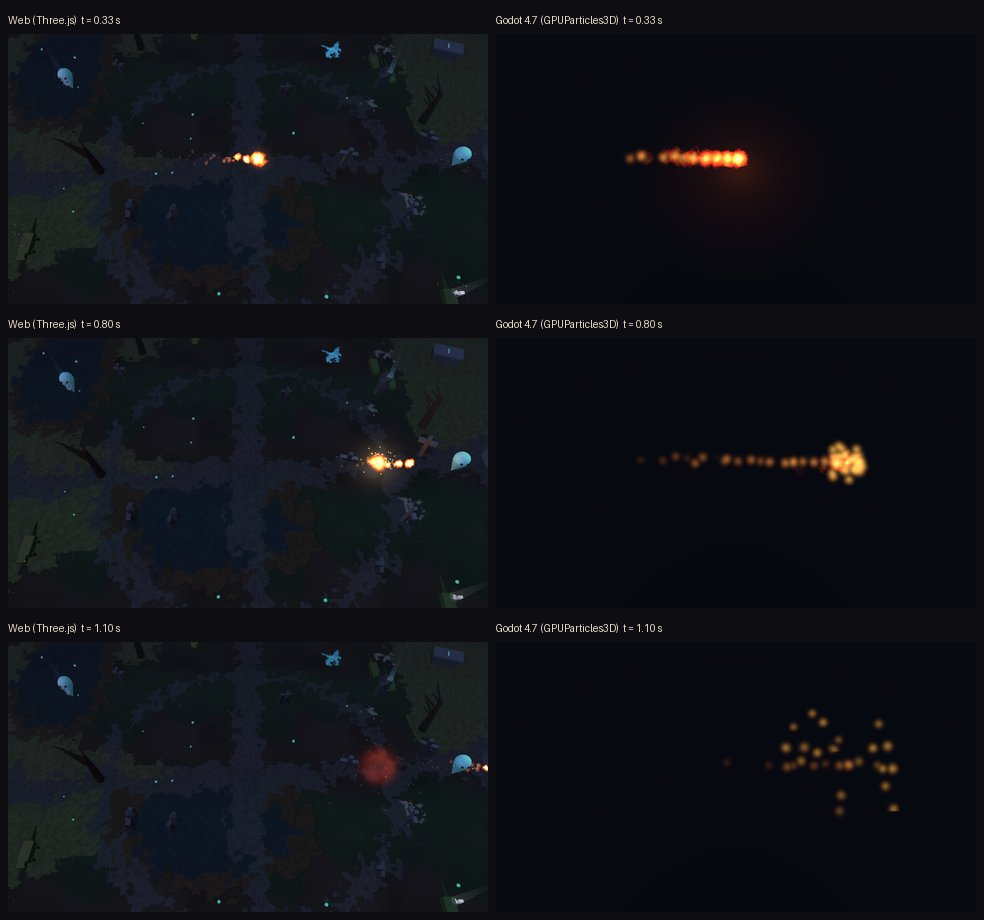
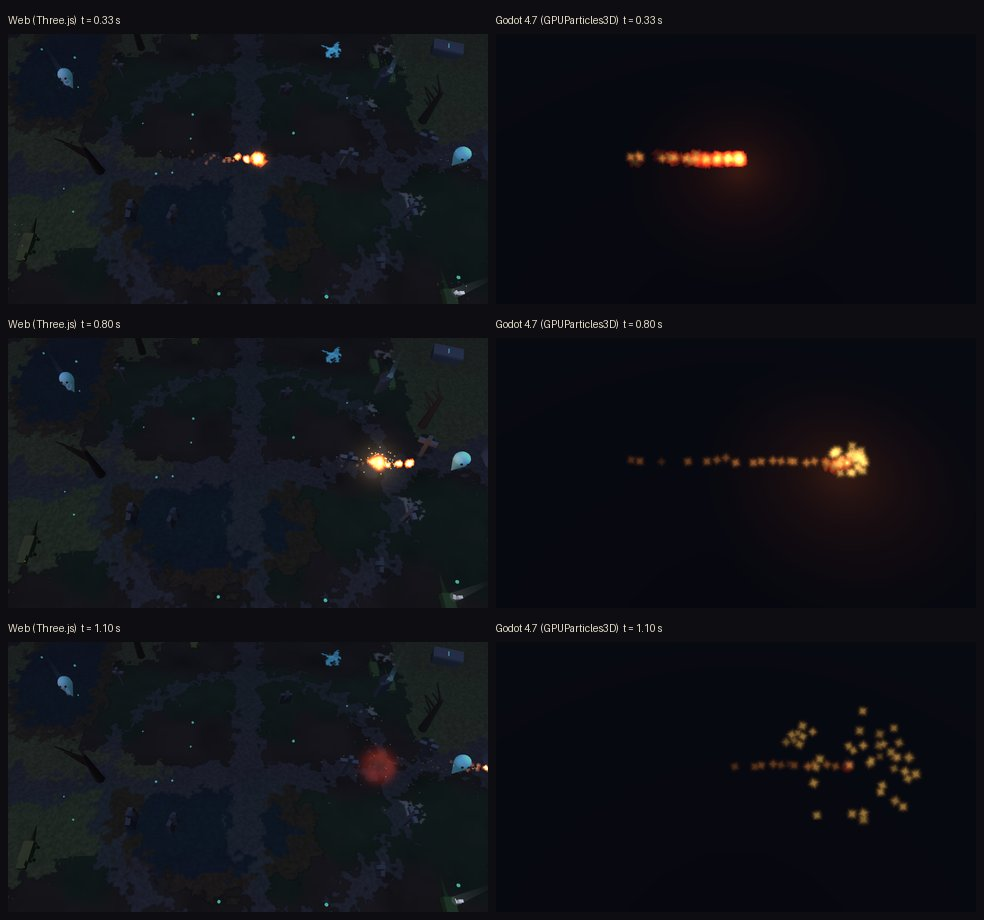
P5: match the web explode() in Godot (spark frames, light, no fade)
Read the web explode() source line by line: sparks and embers use glow
frames 9-16 and fly upward, the explosion flipbook does not fade, and a
0.4 s point light (4.5, range 10) flashes at the hit. Re-rendered the side
by side; explosion flipbook size and spark size still differ and are
listed in docs/GODOT.md. DEVLOG #43 updated.

Changed region(s): [[0.7622, 0.7609, 0.9451, 0.913], [0.6707, 0.4565, 0.9146, 0.5478], [0.6402, 0.1522, 0.7622, 0.1826]]

diff --git a/docs/DEVLOG.md b/docs/DEVLOG.md
@@ -102,7 +102,7 @@
 | 40 | 線上版開始按鈕一直不能按：煙霧、單元、端對端、其他驗證四組紅燈；本機與雲端全綠 | P3b 推送後的線上測試（`npm run test:live`）；探針等 15 秒後，頁面還停在「載入中」 | 1.2 MB 的人偶模型檔用一般 `<script>` 載入，瀏覽器要等它下載完才繼續解析頁面。本機伺服器快，看不出來；GitHub Pages 慢，整頁卡住。網路慢的玩家也會卡 | 載入器與 `character.js` 改成 `defer`；模型檔改由 `character.js` 在頁面可玩之後才插入下載，下載完再換上人偶，下載失敗就維持方塊法師 | 其他驗證「首頁不得以擋住解析的方式載入超過 100 KB 的本地腳本」，拿舊寫法驗證過會紅；教訓：本機與雲端都綠，線上版仍要測，素材大小會改變載入行為 |
 | 41 | 加了 9 列按鍵重設後，設定畫面的頂端在桌機與手機都跑出畫面外 | 截圖自查「卡片超出畫面」（桌機、手機各一） | 覆蓋層用置中排版，內容比螢幕高時會往上下兩邊溢出，頂端被切掉且捲不到 | 設定畫面改成靠上排列、卡片上下自動留白：空間夠時置中，不夠時從頂端開始、可往下捲 | 截圖自查本來就逐畫面檢查卡片在畫面內 |
 | 42 | P4 單元測試三項失敗：Esc 取消改鍵卻關掉設定、搖桿測試報錯、自動瞄準偏 8 單位 | P4 第一次一鍵全跑；同一輪端對端的真實觸控全過 | 三個都是測試寫法：①直接對 window 發鍵盤事件，同一目標上的監聽照註冊順序執行，真實按鍵會先經過 window 的捕獲階段；②搖桿測試在觸控介面建立前就呼叫，程式沒防呆；③先算瞄準點才移鏡頭，順序顛倒 | 測試改從頁面元素發事件；搖桿函式加防呆（介面未建立就只設按鍵）；測試先把鏡頭定位再算瞄準 | 同一組單元測試；教訓：模擬事件要走跟真實事件一樣的路徑 |
-| 43 | Godot 版火星是大顆四角星形，網頁版是小圓點；爆炸也沒有變大 | 第一次並排截圖，放大命中處 | ①光點表 16 格裡有星形，粒子隨機取格就會取到；②Godot 的曲線上限預設是 1，設定「2.5 長到 3.7」被截成不變 | 火星與餘燼固定取第 1 格（圓點）；曲線上限改成依設定值放大 | 並排圖本身就是檢查；修正後形狀一致，大小仍有差，記在 GODOT.md |
+| 43 | Godot 版火星是大顆四角星形，網頁版是小圓點；爆炸也沒有變大 | 第一次並排截圖，放大命中處 | ①光點表 16 格裡有星形，粒子隨機取格就會取到；②Godot 的曲線上限預設是 1，設定「2.5 長到 3.7」被截成不變 | 回頭逐行對照網頁版 `explode()` 原始碼：火星與餘燼改用光點表第 9–16 格、方向偏上，爆炸翻頁圖不淡出，補上命中點光源，曲線上限依設定值放大 | 並排圖本身就是檢查；修正後形狀與爆光一致，爆炸翻頁圖偏小與火星偏大仍未查明，記在 GODOT.md；教訓：移植前先讀原始碼，不只讀參數表（參數表沒有寫格子編號與透明度） |
 | 44 | 雲端：P4 推送後端對端「火勢自己蔓延過整片草地」等三項失敗，火球落在測試草地以外 | GitHub Actions；同一個 commit 在本機全綠 | 未查明：只在雲端重跑同一個工作就全綠，屬於偶發。懷疑過「沒有滑鼠的雲端機器被誤判成觸控裝置、自動瞄準接管了瞄準」，但沒有證據 | 觸控自動開啟多加一個條件：裝置必須回報有觸控點；端對端失敗時多印「是否在觸控模式」與瞄準點座標，桌機流程加「桌機不會被誤判成觸控」斷言 | 下次再失敗就能從印出的資料判斷；這輪因為其他 session 在跑 3–5 GB 的工作，本機沒有記憶體跑測試，改以雲端測試全綠作為推送前的關卡 |
 
 ## 6. 每次改動的標準流程

diff --git a/docs/GODOT.md b/docs/GODOT.md
@@ -42,7 +42,17 @@
 
 | 差異 | 觀察 | 已知或推測的原因 |
 |---|---|---|
-| 命中爆炸 | Godot 版比網頁版小、暗 | 尚未查明；第一次並排時曲線上限被卡在 1，改正後仍偏小 |
-| 命中火星 | Godot 版每顆看起來約大三倍 | 尚未查明；第一次並排時火星隨機取到光點表裡的星形格，改成固定第 1 格後形狀一致、大小仍不同 |
+| 命中爆炸的翻頁圖 | Godot 版命中後 0.1 秒仍比網頁版小、暗；橘色爆光已一致 | 尚未查明。已對齊的部分：不透明度全程 1、點光源亮度 4.5 與照射距離 10 持續 0.4 秒、大小 2.5 長到 3.7（Godot 曲線上限預設 1，已放大） |
+| 命中火星 | 形狀已一致（光點表第 9–16 格），每顆看起來約大兩到三倍 | 尚未查明；兩邊設定都是 0.22 縮到 0.05 |
 | 火星落地反彈 | 網頁版會反彈，Godot 版穿過地面 | Godot 要另外放碰撞節點才會反彈，這版沒有放 |
 | 場景 | Godot 版只有素色地面 | 這次只比對特效，墓碑、地形、怪物沒有移植 |
+
+## 對照過程中修正的設定
+
+| 項目 | 第一版 | 修正後（照網頁版 `explode()` 原始碼） |
+|---|---|---|
+| 火星與餘燼用的格子 | 隨機取光點表任一格，會取到大顆星形 | 第 9–16 格（網頁版 `frame: 8 + randi(0, 7)`） |
+| 火星方向 | 往四面八方 | 偏向上方（網頁版把方向的垂直分量取絕對值） |
+| 爆炸翻頁圖透明度 | 從 1 淡到 0 | 全程 1 |
+| 命中點光源 | 沒有 | 亮度 4.5、照射距離 10、0.4 秒內熄滅 |
+| 縮放曲線 | 上限 1，「變大」被截掉 | 上限依設定值放大 |
